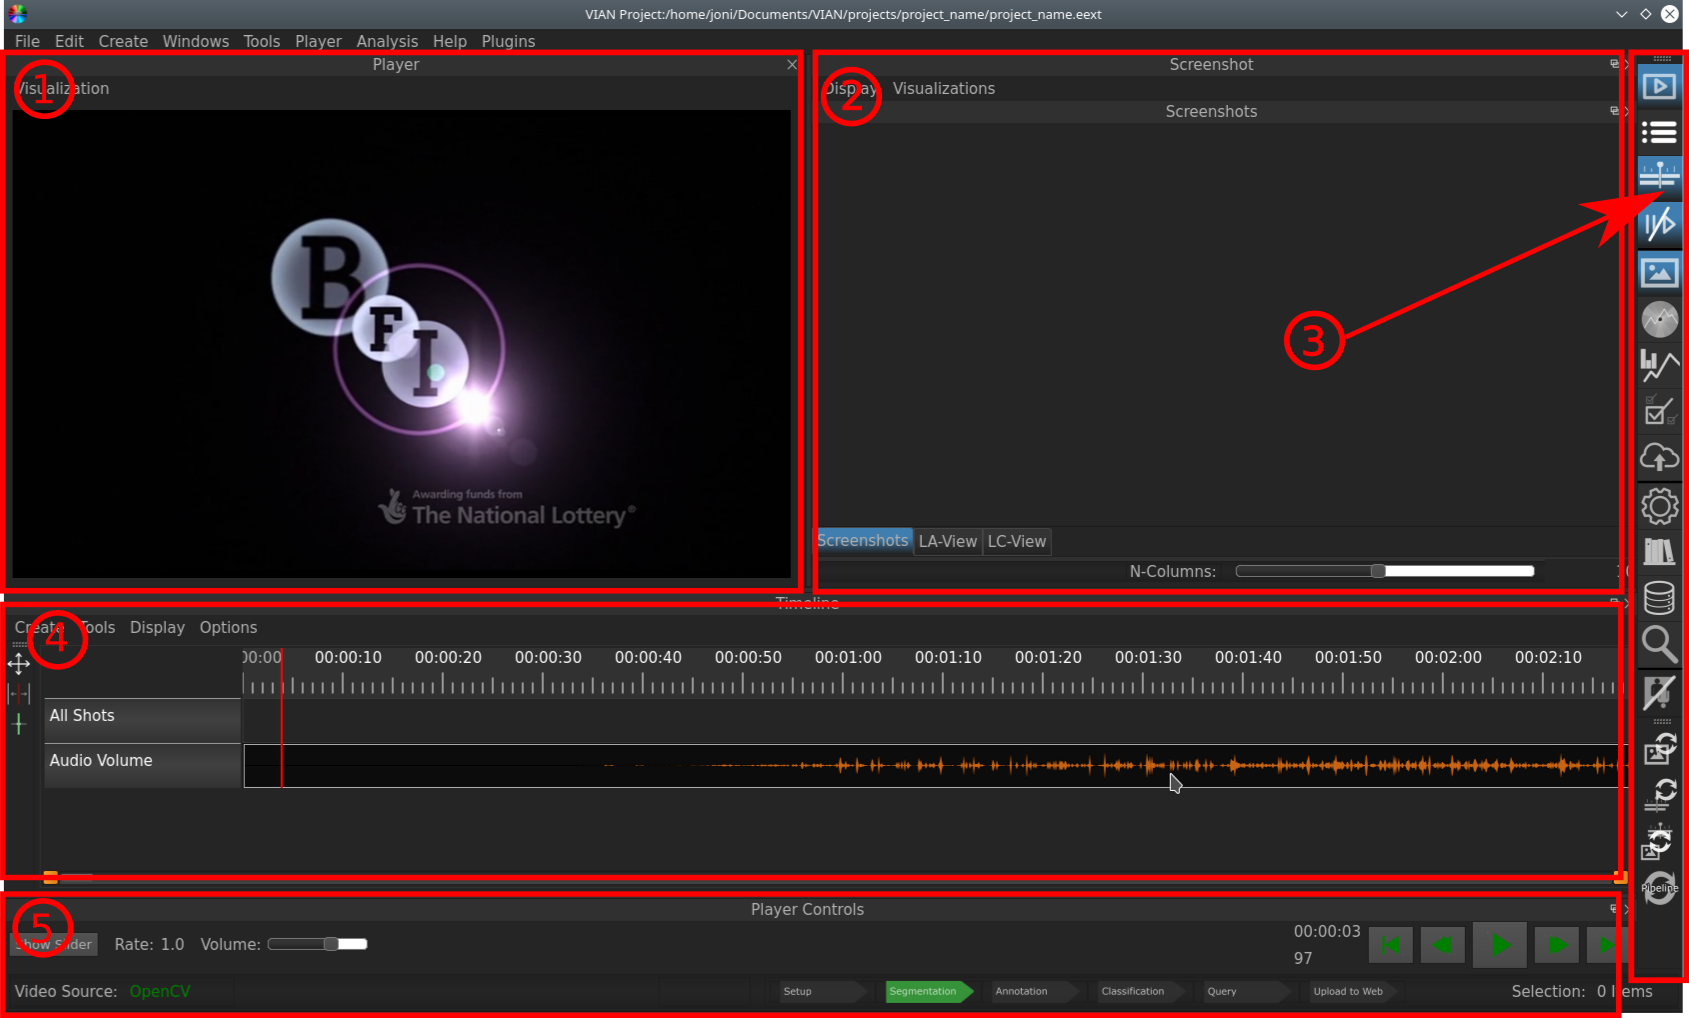
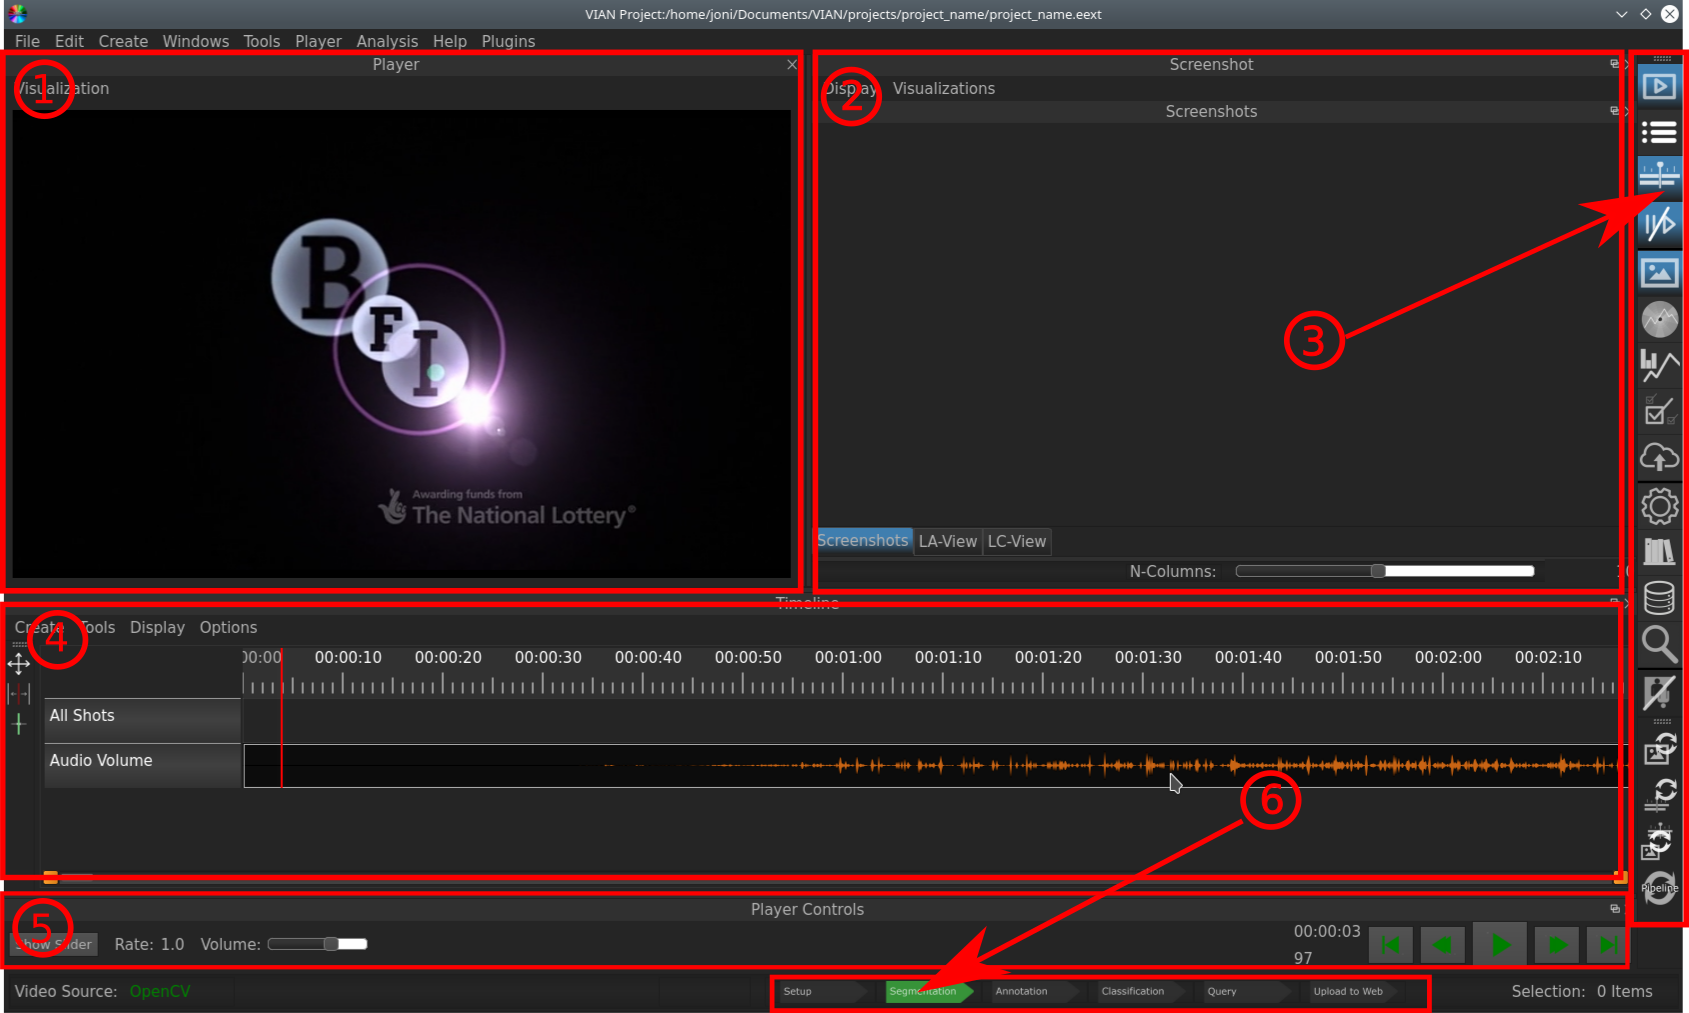
Wiki: updated the Overview Interface page

diff --git a/_docs/source/user_interface/OverviewInterface.rst b/_docs/source/user_interface/OverviewInterface.rst
@@ -18,5 +18,6 @@ Indicated Widgets:
 - 3: Control Panel
 - 4: Timeline
 - 5: Player Controls
+- 6: Current Position in Workflow (by default Segmentation step)
 
 Since this is what you will see when you create a new project, the Timeline and Screenshot Manager look (and are) pretty empty. If you want to know what a prototypical procedure in annotating and analyzing a film from this point on would look like, go to XXX. If you want to know mor about a specific widget seen above, go to YYY.

diff --git a/_docs/source/UserGuide.rst b/_docs/source/UserGuide.rst
@@ -12,7 +12,6 @@ of VIAN. If your a developer, please refer to the Developer's Guide.
 .. toctree::
     :maxdepth: 4
 
-    user_interface/OverviewInterface
     user_interface/user_interface
     step_by_step/step_by_step
     plugins/plugins

diff --git a/_docs/source/user_interface/user_interface.rst b/_docs/source/user_interface/user_interface.rst
@@ -9,6 +9,7 @@ In this section, the Interface of VIAN and it's components are explained success
 .. toctree::
     :maxdepth: 2
 
+    OverviewInterface
     inspector
     outliner
     perspectives
